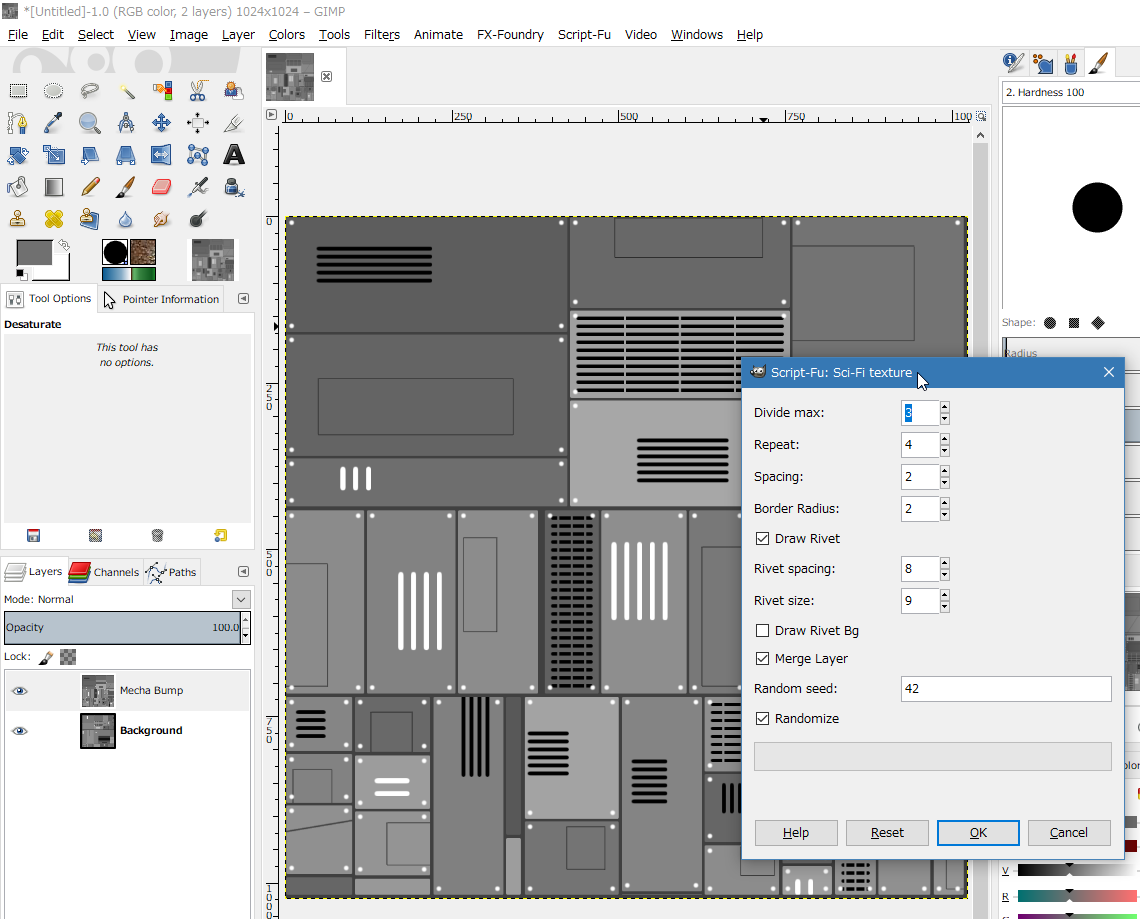
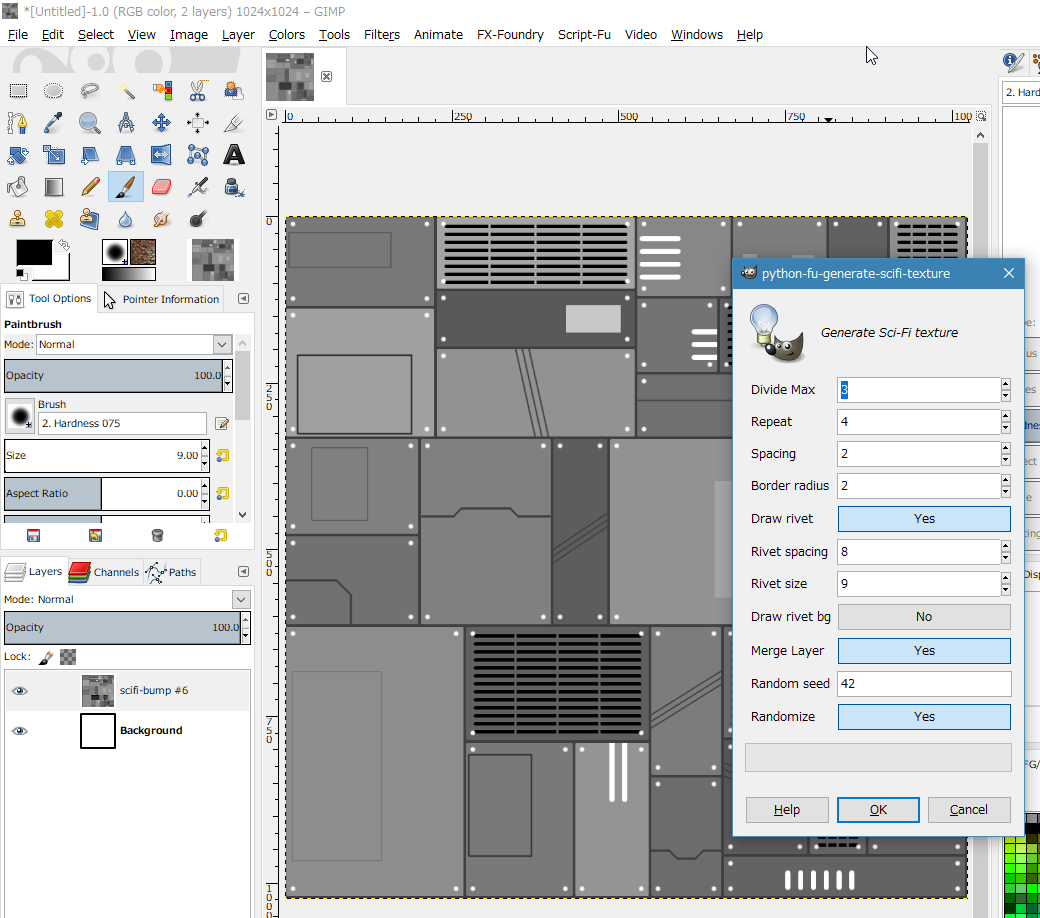
* add : draw pattern * add : progress bar * update : screenshot

diff --git a/sci-fi-texture2.py b/sci-fi-texture2.py
@@ -1,6 +1,6 @@
 #!/usr/bin/env python
 # -*- mode: python; Encoding: utf-8; coding: utf-8 -*-
-# Last updated: <2018/02/04 06:33:02 +0900>
+# Last updated: <2018/02/05 05:20:57 +0900>
 
 u"""
 Generate Scif-Fi bump mapping texture.
@@ -15,6 +15,10 @@ testing environment :
 * GIMP 2.8.22 Portable + Windows10 x64
 
 Changelog :
+
+version 0.0.3 2018/02/05 by mieki256
+    * add : draw pattern
+    * add : progress bar
 
 version 0.0.2 2018/02/04 by mieki256
     * add : draw pattern
@@ -160,6 +164,8 @@ def draw_scifi_box_fill(image, layer, spacing, bg_col, area_chk):
     # save selection to channel
     channel = pdb.gimp_selection_save(image)
 
+    col_add_fg = True if random.random() <= 0.5 else False
+
     d = random.randint(2, 4)
     rects = get_div_rects(x0, y0, x1, y1, d, 2, 0.6)
     for rect in rects:
@@ -176,15 +182,15 @@ def draw_scifi_box_fill(image, layer, spacing, bg_col, area_chk):
             continue
 
         col = 0.0
-        if random.uniform(0, 1.0) < 0.5:
+        if col_add_fg:
             v = bg_col
             col = bg_col - random.uniform(v * 0.05, v * 0.3)
         else:
             v = 1.0 - bg_col
             col = bg_col + random.uniform(v * 0.05, v * 0.3)
 
-        w = math.floor(random.randint(4, 6) * aw / 10)
-        h = math.floor(random.randint(4, 6) * ah / 10)
+        w = math.floor(random.randint(3, 7) * aw / 10)
+        h = math.floor(random.randint(3, 7) * ah / 10)
         px0 = x0 + aa + random.randint(0, (aw - w))
         py0 = y0 + aa + random.randint(0, (ah - h))
 
@@ -192,6 +198,73 @@ def draw_scifi_box_fill(image, layer, spacing, bg_col, area_chk):
         pdb.gimp_image_select_rectangle(image, 2, px0, py0, w, h)
         gimp.set_foreground(col, col, col)
         pdb.gimp_edit_fill(layer, FOREGROUND_FILL)
+
+    # load selection from channel
+    pdb.gimp_selection_none(image)
+    pdb.gimp_selection_load(channel)
+
+    # remove channel
+    pdb.gimp_image_remove_channel(image, channel)
+
+
+def draw_scifi_box_fill_b(image, layer, spacing, bg_col, area_chk):
+    x0, y0, x1, y1, w0, h0 = get_scifi_draw_area(image, spacing)
+    if w0 < area_chk or h0 < area_chk:
+        return
+
+    # save selection to channel
+    channel = pdb.gimp_selection_save(image)
+
+    aa = 8
+    x0 += aa
+    y0 += aa
+    x1 -= aa
+    y1 -= aa
+    w0 = math.floor(x1 - x0)
+    h0 = math.floor(y1 - y0)
+    if w0 <= 0 or h0 <= 0:
+        return
+
+    col_add_fg = True if random.random() <= 0.5 else False
+
+    d = random.randint(2, 3)
+    rects = get_div_rects(x0, y0, x1, y1, d, 2, 0.6)
+    for rect in rects:
+        x0, y0, x1, y1 = rect
+        w0 = math.floor(x1 - x0)
+        h0 = math.floor(y1 - y0)
+        if w0 <= 0 or h0 <= 0:
+            continue
+
+        d = random.randint(2, 3)
+        nrects = get_div_rects(x0, y0, x1, y1, d, 2, 0.6)
+        for rect in nrects:
+            x0, y0, x1, y1 = rect
+            aa = 3
+            x0 += aa
+            y0 += aa
+            x1 -= aa
+            y1 -= aa
+            w = math.floor(x1 - x0)
+            h = math.floor(y1 - y0)
+            if w <= aa * 2 or h <= aa * 2:
+                continue
+
+            if random.random() <= 0.6:
+                continue
+
+            col = 0.0
+            if col_add_fg:
+                v = bg_col
+                col = bg_col - random.uniform(v * 0.1, v * 0.75)
+            else:
+                v = 1.0 - bg_col
+                col = bg_col + random.uniform(v * 0.1, v * 0.75)
+
+            # fill box
+            pdb.gimp_image_select_rectangle(image, 2, x0, y0, w, h)
+            gimp.set_foreground(col, col, col)
+            pdb.gimp_edit_fill(layer, FOREGROUND_FILL)
 
     # load selection from channel
     pdb.gimp_selection_none(image)
@@ -240,7 +313,6 @@ def draw_scifi_angled_line(image, layer, spacing, lcol, area_chk):
     if w0 < area_chk or h0 < area_chk:
         return
 
-    aa = 12
     px0 = x0 - spacing * 2
     px1 = x1 + spacing * 2
     py0 = y0 - spacing * 2
@@ -248,19 +320,30 @@ def draw_scifi_angled_line(image, layer, spacing, lcol, area_chk):
     w = px1 - px0
     h = py1 - py0
 
+    aa = 10
     if w >= h:
-        px1 = px0 + ((random.randint(0, 6) + 2) * w) / 10
-        px0 = px0 + ((random.randint(0, 6) + 2) * w) / 10
+        px1 = math.floor(px0 + random.randint(2, 6) * w / 10)
+        px0 = math.floor(px0 + random.randint(2, 6) * w / 10)
+        dx = aa
+        dy = 0
     else:
-        py1 = py0 + ((random.randint(0, 6) + 2) * h) / 10
-        py0 = py0 + ((random.randint(0, 6) + 2) * h) / 10
+        py1 = math.floor(py0 + random.randint(2, 6) * h / 10)
+        py0 = math.floor(py0 + random.randint(2, 6) * h / 10)
+        dx = 0
+        dy = aa
 
     bsize = 2
     # bsize = random.randint(2, 3)
     gimp.set_foreground(lcol, lcol, lcol)
     pdb.gimp_context_set_brush("2. Hardness 100")
     pdb.gimp_context_set_brush_size(bsize)
-    pdb.gimp_paintbrush_default(layer, 4, [px0, py0, px1, py1])
+
+    for i in range(3):
+        pdb.gimp_paintbrush_default(layer, 4, [px0, py0, px1, py1])
+        px0 += dx
+        px1 += dx
+        py0 += dy
+        py1 += dy
 
 
 def draw_scifi_angled_line_b(image, layer, spacing, lcol, lw, area_chk):
@@ -283,6 +366,9 @@ def draw_scifi_angled_line_b(image, layer, spacing, lcol, lw, area_chk):
     if px2 > px3:
         px2, px3 = px3, px2
 
+    if random.random() < 0.5:
+        py0, py1 = py1, py0
+
     bsize = 3
     # bsize = random.randint(2, 3)
     gimp.set_foreground(lcol, lcol, lcol)
@@ -291,6 +377,52 @@ def draw_scifi_angled_line_b(image, layer, spacing, lcol, lw, area_chk):
     pdb.gimp_paintbrush_default(layer, 12, [px0, py0, px1, py0,
                                             px2, py1, px3, py1,
                                             px4, py0, px5, py0])
+
+
+def draw_scifi_angled_line_c(image, layer, spacing, lcol, area_chk):
+    x0, y0, x1, y1, w0, h0 = get_scifi_draw_area(image, spacing)
+    if w0 <= area_chk or h0 <= area_chk:
+        return
+
+    px0 = math.floor(x0 - spacing * 2)
+    py0 = math.floor(y0 + random.randint(2, 6) * h0 / 10)
+    ang = 0
+    if random.random() > 0.5:
+        px0 = math.floor(x1 + spacing * 2)
+        ang = 180
+
+    if py0 <= (y0 + y1) / 2:
+        add_ang = 45 if ang == 0 else -45
+    else:
+        add_ang = -45 if ang == 0 else 45
+
+    dists = []
+    d0 = math.floor(random.randint(3, 5) * w0 / 10)
+    dists.append([d0, ang])
+    d1 = math.floor((w0 if w0 <= h0 else h0) / 4)
+    dists.append([d1, add_ang])
+    dists.append([h0, add_ang])
+
+    x, y = px0, py0
+    ang = 0
+    pnts = []
+    pnts.append(x)
+    pnts.append(y)
+    for dt in dists:
+        d, add_ang = dt
+        ang += add_ang
+        r = math.radians(ang)
+        x = math.floor(x + d * math.cos(r))
+        y = math.floor(y + d * math.sin(r))
+        pnts.append(x)
+        pnts.append(y)
+
+    bsize = 3
+    # bsize = random.randint(2, 3)
+    gimp.set_foreground(lcol, lcol, lcol)
+    pdb.gimp_context_set_brush("2. Hardness 100")
+    pdb.gimp_context_set_brush_size(bsize)
+    pdb.gimp_paintbrush_default(layer, len(pnts), pnts)
 
 
 def draw_scifi_rivet(image, layer, spacing, rsize, rspc, rbg, area_chk):
@@ -382,8 +514,10 @@ def generate_scifi_texture(img, layer,
     rects = div_rect(rects, 0, 0, w - 1, h - 1, dmax, 1, 0, cntmax, dmax)
 
     kind_cnt = 0
-    # kind_lst = [5, 5, 5]
-    kind_lst = [0, 1, 0, 4, 2, 0, 1, 3, 4, 5]
+    # kind_lst = [4, 4, 4]
+    kind_lst = [0, 0, 0, 0, 1, 1, 1, 1, 2, 2, 3, 3, 4, 4, 5, 5, 6, 6, 7, 7]
+
+    gimp.progress_init("Draw rect...")
 
     for i, rect in enumerate(rects):
         bx0, by0, bx1, by1 = rect
@@ -408,7 +542,7 @@ def generate_scifi_texture(img, layer,
         gimp.set_foreground(fillcol, fillcol, fillcol)
         pdb.gimp_edit_fill(box_layer, FOREGROUND_FILL)
 
-        kind = kind_lst[i % len(kind_lst)]
+        kind = kind_lst[random.randint(0, len(kind_lst) - 1)]
 
         if kind == 0:
             # draw line
@@ -416,46 +550,55 @@ def generate_scifi_texture(img, layer,
             cnt = random.randint(3, 8)
             ldir = 0 if random.random() < 0.5 else 1
             lspc = 12
-            area_chk = 28
+            chk = 28
             draw_scifi_lines(img, line_layer, spacing,
-                             col, lspc, ldir, cnt, area_chk)
+                             col, lspc, ldir, cnt, chk)
         elif kind == 1:
             # draw box
             # col = (32.0 / 256.0)
             col_range = max([fillcol - (8.0 / 256.0), (8.0 / 256.0)])
             col = random.uniform(0, col_range)
-            area_chk = 20
-            draw_scifi_box(img, line_layer, spacing, col, area_chk)
+            chk = 20
+            draw_scifi_box(img, line_layer, spacing, col, chk)
         elif kind == 2:
+            # draw box fill
+            bspc = spacing + 8
+            chk = 28
+            draw_scifi_box_fill(img, line_layer, bspc, fillcol, chk)
+        elif kind == 3:
+            # draw box fill b
+            bspc = spacing + 8
+            chk = 28
+            draw_scifi_box_fill_b(img, line_layer, bspc, fillcol, chk)
+        elif kind == 4:
             # draw grid
             col = 0.0
             lspc = 12
-            area_chk = 60
-            draw_scifi_grid(img, line_layer, spacing,
-                            col, fillcol, lspc, area_chk)
-        elif kind == 3:
-            # draw angled line
-            area_chk = 28
-            draw_scifi_angled_line(img, line_layer, spacing, bg_col, area_chk)
-        elif kind == 4:
-            # draw box fill
-            bspc = spacing + 8
-            area_chk = 28
-            draw_scifi_box_fill(img, line_layer, bspc, fillcol, area_chk)
+            chk = 60
+            draw_scifi_grid(img, line_layer, spacing, col, fillcol, lspc, chk)
         elif kind == 5:
+            # draw angled line
+            chk = 28
+            draw_scifi_angled_line(img, line_layer, spacing, bg_col, chk)
+        elif kind == 6:
             # draw angled line b
             lw = 12
-            area_chk = lw * 4
-            draw_scifi_angled_line_b(img, line_layer, spacing,
-                                     bg_col, lw, area_chk)
+            chk = lw * 4
+            draw_scifi_angled_line_b(img, line_layer, spacing, bg_col, lw, chk)
+        elif kind == 7:
+            # draw angled line c
+            lw = 12
+            chk = lw * 4
+            draw_scifi_angled_line_c(img, line_layer, spacing, bg_col, chk)
 
         if rivet_enable:
             # draw rivet
-            area_chk = 36
+            chk = 36
             draw_scifi_rivet(img, rivet_layer, spacing,
-                             rivet_size, rivet_spc, rivet_bg, area_chk)
+                             rivet_size, rivet_spc, rivet_bg, chk)
 
         gimp.displays_flush()
+        gimp.progress_update(float(i + 1) / len(rects))
 
     # merge layer
     if merge_enable:
@@ -464,6 +607,8 @@ def generate_scifi_texture(img, layer,
         pdb.gimp_image_merge_down(img, rivet_layer, 1)
         next_layer = pdb.gimp_image_get_active_layer(img)
         next_layer.name = "scifi-bump"
+
+    pdb.gimp_progress_end()
 
     pdb.gimp_selection_none(img)
     gimp.set_foreground(old_color)
